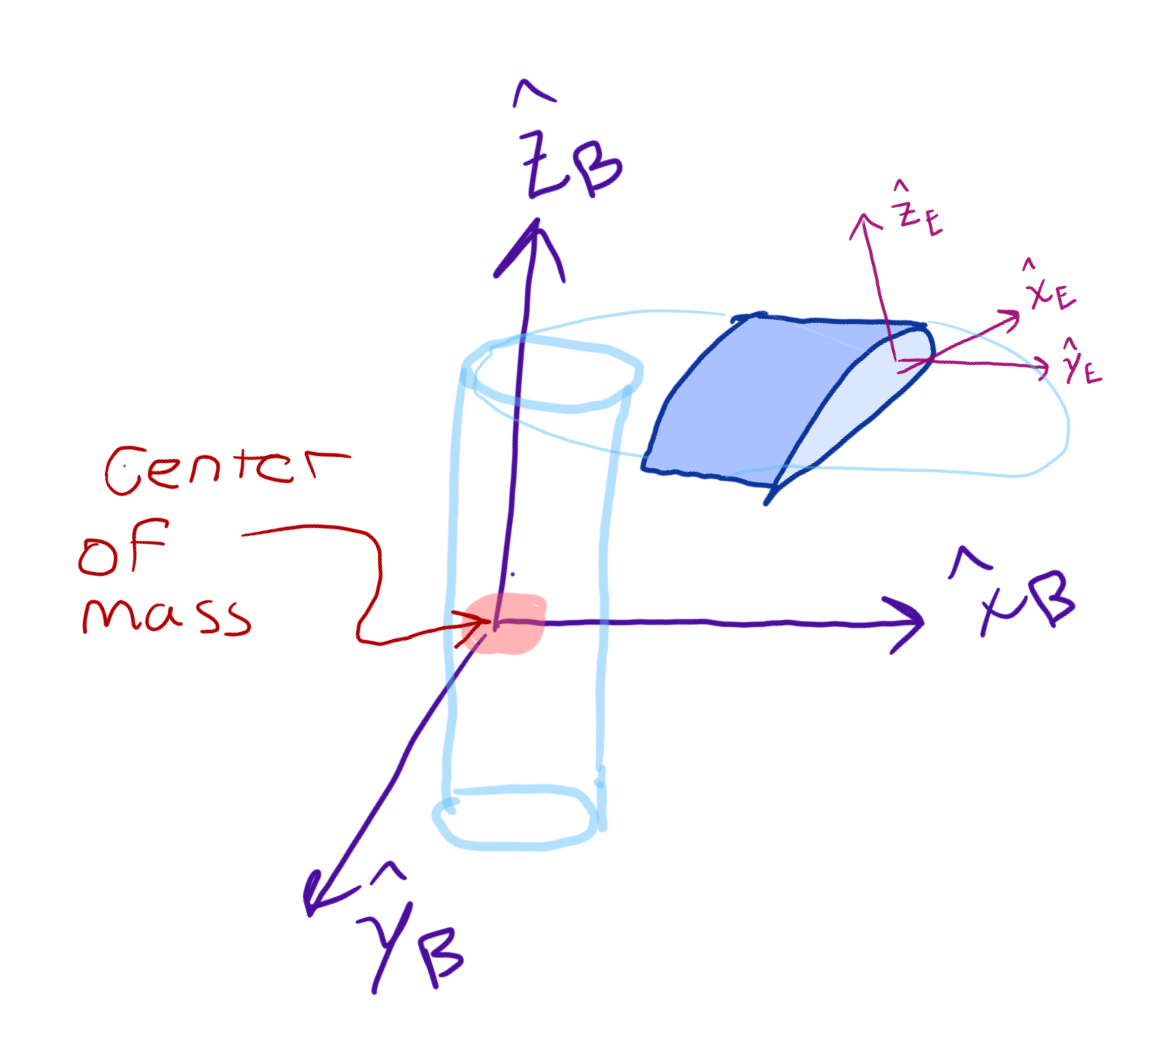
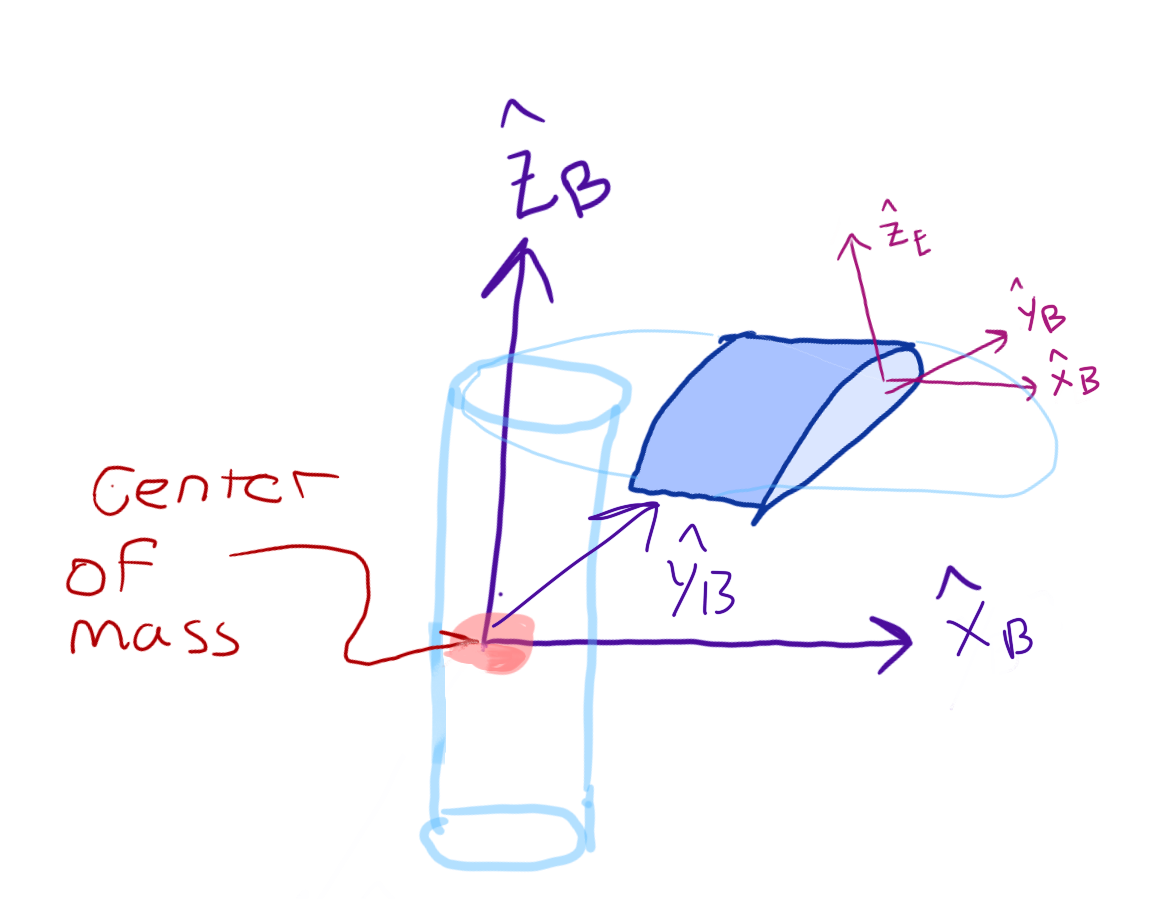
Fixed spelling and right hand notation in element_frame.png

diff --git a/src/aerodynamics.py b/src/aerodynamics.py
@@ -18,12 +18,12 @@ def getRelativeWind(bladeIndex, numBlades, bladeRadius, vel_w2b_w,
     the given quantities
 
     Return values:
-    relativeWind_e : the relative wind in the propellor frame
-    relWindAngleGamma: the wind angle relative to the propellor blade disk angle
+    relativeWind_e : the relative wind in the propeller frame
+    relWindAngleGamma: the wind angle relative to the propeller blade disk angle
     r_b2e_b: the vector from the body to the element in the body frame
     rot_b2e: the rotation matrix from the body to element frame
 
-    Arguements:
+    Arguments:
     bladeIndex: the index of the blade to be used. Assumes blade 0 is aligned with the
     x-axis of the body
     numBlades: total number of blades, assuming equal spacing
@@ -42,8 +42,8 @@ def getRelativeWind(bladeIndex, numBlades, bladeRadius, vel_w2b_w,
 
     """
     # Calculate Rotation Matricies
-    propellor_angle = bladeIndex / numBlades * 2 * np.pi
-    rot_b2e = R.from_euler('Z', propellor_angle + np.pi / 2).as_dcm()
+    propeller_angle = bladeIndex / numBlades * 2 * np.pi  # Final blade lies on 2pi, or 0, not first blade.
+    rot_b2e = R.from_euler('Z', propeller_angle).as_dcm()
 
     # Body Velocity Calculation
     vel_w2b_b = rot_w2b.dot(vel_w2b_w)
@@ -55,13 +55,13 @@ def getRelativeWind(bladeIndex, numBlades, bladeRadius, vel_w2b_w,
 
     # Velocity from rotational component Calculation
     # Calculate the vector from the cg to the element
-    pos_x_blade = bladeRadius * np.cos(propellor_angle + np.pi / 2)
-    pos_y_blade = bladeRadius * np.sin(propellor_angle + np.pi / 2)
+    pos_x_blade = bladeRadius * np.cos(propeller_angle + np.pi / 2)
+    pos_y_blade = bladeRadius * np.sin(propeller_angle + np.pi / 2)
     r_b2e_b = np.array([pos_x_blade, pos_y_blade, height_b2e])
 
     # Calculate the angular velocity in the body frame
     angvel_b2e_b = np.array([0, 0, yawDot_b2e])
-    # Total angular velocity of the propellor is body + prop
+    # Total angular velocity of the propeller is body + prop
     angvel_w2e_b = angvel_b2e_b + angvel_w2b_b
 
     vel_b2e_b = np.cross(angvel_w2e_b, r_b2e_b)
@@ -75,26 +75,42 @@ def getRelativeWind(bladeIndex, numBlades, bladeRadius, vel_w2b_w,
 
 
 def testRelativeWind():
-    """Test for relative wind. """
+    """Test for relative wind.
+        Using the "first" blade out of two, so the rotation should be
+        First Case: No wind, the relative wind should have zero velocity.
+                    rot_b2e1 should be a 180 degree rotation about z-axis, so diag(-1,-1,1)
+                    r_b2e_b should just be [0,0,height_b2e]
+        Second Case: body velocity [1,1,0], normal orientation. This should make
+    """
+
     eul_w2b = np.pi / 180 * np.array([0, 0, 0])  # ZXY
     rot_w2b = euler2Rotm(eul_w2b)
 
     numBlades = 2
     bladeRadius = 0.1
     bladeIndex = 1
-    vel_w2b_w = np.array([0, 10, 10])
+    vel_w2b_w = np.array([0, 0, 0])
     angvel_w2b_b = np.array([0.0, 0.0, 0.0])
     inflowVelocity = 0
     height_b2e = 2
     yawDot_b2e = 0
 
     # Using XYZ euler angles such that the last angle Z is the correct psi angle
-    (relWind, gamma, _, _) = getRelativeWind(bladeIndex, numBlades, bladeRadius, vel_w2b_w,
-                                             rot_w2b, angvel_w2b_b, inflowVelocity, height_b2e,
-                                             yawDot_b2e)
+    (relWind1, gamma1, r_b2e_b1, rot_b2e1) = getRelativeWind(bladeIndex, numBlades, bladeRadius, vel_w2b_w,
+                                                             rot_w2b, angvel_w2b_b, inflowVelocity, height_b2e,
+                                                             yawDot_b2e)
+    # TODO: Convert prints into exceptions
+    if ~np.allclose(relWind1, np.zeros(3)):
+        print('ERR: [0,0,0] != RelativeWind1 :', relWind1)
+    if ~np.allclose(rot_b2e1, np.diag([-1, -1, 1])):
+        print('ERR: diag[-1,-1,1] != rot_b2e1 :', rot_b2e1)
+    if ~np.allclose(r_b2e_b1, np.diag([0, 0, height_b2e])):
+        print('ERR: diag[0, 0, %f] != rot_b2e1 : ' % height_b2e)
+        print(r_b2e_b1)
 
-    print('gamma', gamma * 180 / np.pi)
-    print('relwind', relWind)
+
+
+
 
 
 def getAngleOfAttack(bladePitch, relWindAngleGamma):
@@ -110,7 +126,7 @@ def clFlatPlate(alpha):
 
 def cdFlatPlate(alpha):
     """ Coeff of drag for a Flat Plate """
-    return 2. * np.sin(alpha)**2.0
+    return 2. * np.sin(alpha) ** 2.0
 
 
 def cmFlatPlate(alpha):
@@ -120,11 +136,11 @@ def cmFlatPlate(alpha):
 
 def getLiftDragElement(elementWidth, chord, rho, relWind_e, alpha):
     """ Returns magnitude of lift and drag
-    Arguements:
+    Arguments:
     elementWidth: the width of the blade section
     chord: airfoil chord
     rho: air density
-    relWind_e : relative wind in the propellor frame
+    relWind_e : relative wind in the propeller frame
     alpha: angle of attack of section
     Returns:
     (lift, drag) scalars
@@ -141,4 +157,6 @@ def getLiftDragElement(elementWidth, chord, rho, relWind_e, alpha):
 
 def testAerodynamics():
     """Test Aerodynamics!"""
+    print('Testing Aerodynamics...')
     testRelativeWind()
+    print('All Aerodynamics Tests passed.')

diff --git a/src/shrimpClasses.py b/src/shrimpClasses.py
@@ -11,7 +11,7 @@ from scipy.spatial.transform import Rotation as R
 from mathUtil import addYaw, euler2Rotm, rotm2Euler, rpm2RadiansPerSecond
 
 
-class PropellorType(Enum):
+class PropellerType(Enum):
     SHAFT = 1
     BODY = 2
 
@@ -31,9 +31,9 @@ class BladeElementParameters:
         self.yawDot_b2e = yawDot_b2e  # spin velocity of prop about body z axis for this element. Scalar [m/s]
 
 
-class PropellorParameters:
-    """Parameters of all blades in the propellor
-       Assumes propellor center is aligned in the z-axis with the body center of mass.
+class PropellerParameters:
+    """Parameters of all blades in the propeller
+       Assumes propeller center is aligned in the z-axis with the body center of mass.
     """
 
     def __init__(self, numBlades, pitchRootTip, radiusRootTip, chordRootTip,
@@ -42,8 +42,8 @@ class PropellorParameters:
         self.pitchRootTip = pitchRootTip  # Tuple of blade pitch, (root, tip)
         self.radiusRootTip = radiusRootTip  # Tuple, (root, tip)
         self.chordRootTip = chordRootTip  # Tuple, (root, tip)
-        self.height_b2p = height_b2p  # Z-axis distance from cg to propellor, +z is up
-        self.propType = propType  # PropellorType Enum
+        self.height_b2p = height_b2p  # Z-axis distance from cg to propeller, +z is up
+        self.propType = propType  # PropellerType Enum
 
 
 class BatteryParameters:
@@ -99,10 +99,10 @@ class ShrimpState:
         self.vel_w2b_w = vel_w2b_w  # np.array 3x1 velocity vector from world origin to body/cg
         self.euler_w2b = euler_w2b  # np.array 3x1 euler from world to body frame
         self.angvel_w2b_b = angvel_w2b_b  # np.array 3x1 angular velocity of the body in the body frame
-        self.inflowVel = inflowVel  # scalar inflow velocity adjustment due to duct on the shaft propellor [m/s]
-        self.yaw_b2p = yaw_b2p  # the angle from the stator/body to the rotor/propellor
+        self.inflowVel = inflowVel  # scalar inflow velocity adjustment due to duct on the shaft propeller [m/s]
+        self.yaw_b2p = yaw_b2p  # the angle from the stator/body to the rotor/propeller
         self.yaw_f2b = yaw_f2b  # the angle from the flyer frame to the body frame
-        # the speed of the spin of the propellor relative to the body/stator. Scalar [rad/s]
+        # the speed of the spin of the propeller relative to the body/stator. Scalar [rad/s]
         self.yawDot_b2p = yawDot_b2p
         self.yawDot_f2b = yawDot_f2b  # the speed of the spin of the body relative to the flyer frame. Scalar [rad/s]
         self.rot_f2b = rot_f2b
@@ -168,7 +168,7 @@ class ShrimpState:
 
 def defaultShaftPropParams():
     """ Parameters for Cheerson
-        Data from propellor_cheerson_cx10.m
+        Data from propeller_cheerson_cx10.m
     """
     numBlades = 2
     # TODO: do pitches/radius with interpolable sections
@@ -176,21 +176,21 @@ def defaultShaftPropParams():
     chordRootTip = (3.22e-3, 4.12e-3)
     radiusRootTip = (0, 0.0146)
     height_b2p = -1.55 / 1000  # Piccolissimo_V11, positive is UP
-    propType = PropellorType.SHAFT
-    return PropellorParameters(numBlades, pitchRootTip, radiusRootTip, chordRootTip,
+    propType = PropellerType.SHAFT
+    return PropellerParameters(numBlades, pitchRootTip, radiusRootTip, chordRootTip,
                                height_b2p, propType)
 
 
 def defaultBodyPropParams():
-    """ Parametersfor body_Piccolissimo_V11"""
+    """ Parameters for body_Piccolissimo_V11"""
     numBlades = 6
     # TODO: do pitches/radius with interpolable sections
     pitchRootTip = (0.15359, 0.7927)
     chordRootTip = (0.0135, 0.0054)
     radiusRootTip = (0, 19.16e-3)
     height_b2p = 2.56 / 1000  # Piccolissimo_V11, positive is UP
-    propType = PropellorType.BODY
-    return PropellorParameters(numBlades, pitchRootTip, radiusRootTip, chordRootTip,
+    propType = PropellerType.BODY
+    return PropellerParameters(numBlades, pitchRootTip, radiusRootTip, chordRootTip,
                                height_b2p, propType)
 
 
@@ -220,7 +220,7 @@ def defaultShrimpParams():
     Iyy = inertiaAdjustment * 439e-9
     Izz = inertiaAdjustment * 697e-9
 
-    # Taken from propellor_cheerson_cx10.m Though this describes the rotor mass/inertia
+    # Taken from propeller_cheerson_cx10.m Though this describes the rotor mass/inertia
     # as well
     propIxx = 3.95e-9
     propIyy = 6.31e-9

diff --git a/src/bladeDynamics.py b/src/bladeDynamics.py
@@ -6,7 +6,7 @@ Rebecca Li 2019
 import numpy as np
 
 from aerodynamics import getAngleOfAttack, getLiftDragElement, getRelativeWind
-from shrimpClasses import BladeElementParameters, dummyShrimpState, PropellorType
+from shrimpClasses import BladeElementParameters, dummyShrimpState, PropellerType
 from shrimpClasses import defaultBodyPropParams, defaultShrimpParams  # TODO make this import prettier
 from mathUtil import rpm2RadiansPerSecond
 
@@ -41,7 +41,7 @@ def getElementForceMoment(params, state):
     alpha = getAngleOfAttack(gamma, params.pitch)
     (lift, drag) = getLiftDragElement(params.width, params.chord, rho, relativeWind_e, alpha)
 
-    # Forces in the propellor frame
+    # Forces in the propeller frame
     normalForce_e = lift * np.cos(gamma) + drag * np.sin(gamma)
     tangentialForce_e = -lift * np.sin(gamma) + drag * np.cos(gamma)
 
@@ -63,7 +63,7 @@ def testBladeElement(radius, chord, pitch, width):
 
     inflowVel = 1
     yawDot_b2e = rpm2RadiansPerSecond(500)
-    # Set up this particular propellor element
+    # Set up this particular propeller element
     bladeParams = BladeElementParameters(rho, pitch, width, radius, chord, bladeIndex,
                                          numBlades, height_b2e, inflowVel, yawDot_b2e)
 
@@ -76,12 +76,12 @@ def getBladeForceMoment(propParams, shrimpParams, state, bladeIndex):
     """Get the force moment of a single blade.
        Splits up the blade into n sections and evaluates a strip model for each
        section. Also decides inflow velocity and angular velocity based off of whether
-       it is the body or shaft propellor
+       it is the body or shaft propeller
        Arguments:
-           propParams: PropellorParameters
+           propParams: PropellerParameters
            shrimpParams: ShrimpParameters
            state: ShrimpState
-           bladeIndex: index of the blade in the propellor
+           bladeIndex: index of the blade in the propeller
     """
     n = 5  # The number of sections to split the blade into for element theory
     (radiusRoot, radiusTip) = propParams.radiusRootTip
@@ -91,15 +91,15 @@ def getBladeForceMoment(propParams, shrimpParams, state, bladeIndex):
     radii = np.linspace(radiusRoot, radiusTip, n)
     chords = np.linspace(propParams.chordRootTip[0], propParams.chordRootTip[1], n)
 
-    # Assign propellor specific characteristics
-    if propParams.propType == PropellorType.SHAFT:
+    # Assign propeller specific characteristics
+    if propParams.propType == PropellerType.SHAFT:
         inflowVel = state.inflowVel
         yawDot_b2p = state.yawDot_b2p
-    elif propParams.propType == PropellorType.BODY:
+    elif propParams.propType == PropellerType.BODY:
         inflowVel = 0
         yawDot_b2p = 0
     else:
-        raise Exception('Using unimplemented PropellorType!')
+        raise Exception('Using unimplemented PropellerType!')
 
     def getThisElemForceMoment(pitch, radius, chord):
         elementParams = BladeElementParameters(shrimpParams.rho, pitch, width, radius,
@@ -116,9 +116,9 @@ def getBladeForceMoment(propParams, shrimpParams, state, bladeIndex):
 
 
 def getPropForceMoment(propParams, shrimpParams, state):
-    """Computes the force across all blades in the propellor
+    """Computes the force across all blades in the propeller
         Arguments:
-        propParams: PropellorParameters to be iterated over
+        propParams: PropellerParameters to be iterated over
         shrimpParams: ShrimpParameters
         state: ShrimpState
     """

diff --git a/piccolissimo/UNO/Simulator/Functions/computeAeroForceMomentFlyer.m b/piccolissimo/UNO/Simulator/Functions/computeAeroForceMomentFlyer.m
@@ -3,7 +3,7 @@ function [forcesAeroBody_f, momentsAeroBody_f, forcesProp_f, momentsProp_f aoa_b
 %  Returns the forces in the flyer frame, moments in the flyer frame,
 %  angle of attack of the body blades, angle of attack of prop blades
 
-% B_p is the number of propellor blades (shaft propellor)
+% B_p is the number of propeller blades (shaft propeller)
 % B_d is the number of body drag plates
 
     %% First Calculate Body drag plates
@@ -29,7 +29,7 @@ function [forcesAeroBody_f, momentsAeroBody_f, forcesProp_f, momentsProp_f aoa_b
         aoa_body(:,drag_blade) = aoa;
     end
 
-    %% Calculate Propellor drag plates
+    %% Calculate Propeller drag plates
     % propeller blades computed in rotor frame
     F_p = zeros(length(beta_p),3);
     M_p = zeros(length(beta_p),3);

diff --git a/src/shrimpOde.py b/src/shrimpOde.py
@@ -50,7 +50,7 @@ def flyerOde(odeState, t, p):
     rot_p2b = np.transpose(rot_b2p)
     rot_p2f = rot_p2b.dot(rot_b2f)
 
-    # Rotate some quanitities
+    # Rotate some quantities
     vel_w2b_f = rot_w2f.dot(s.vel_w2b_w)
     # velocity of cg flyer is the same as velocity of cg body
     vel_b2f_f = np.zeros(3)
